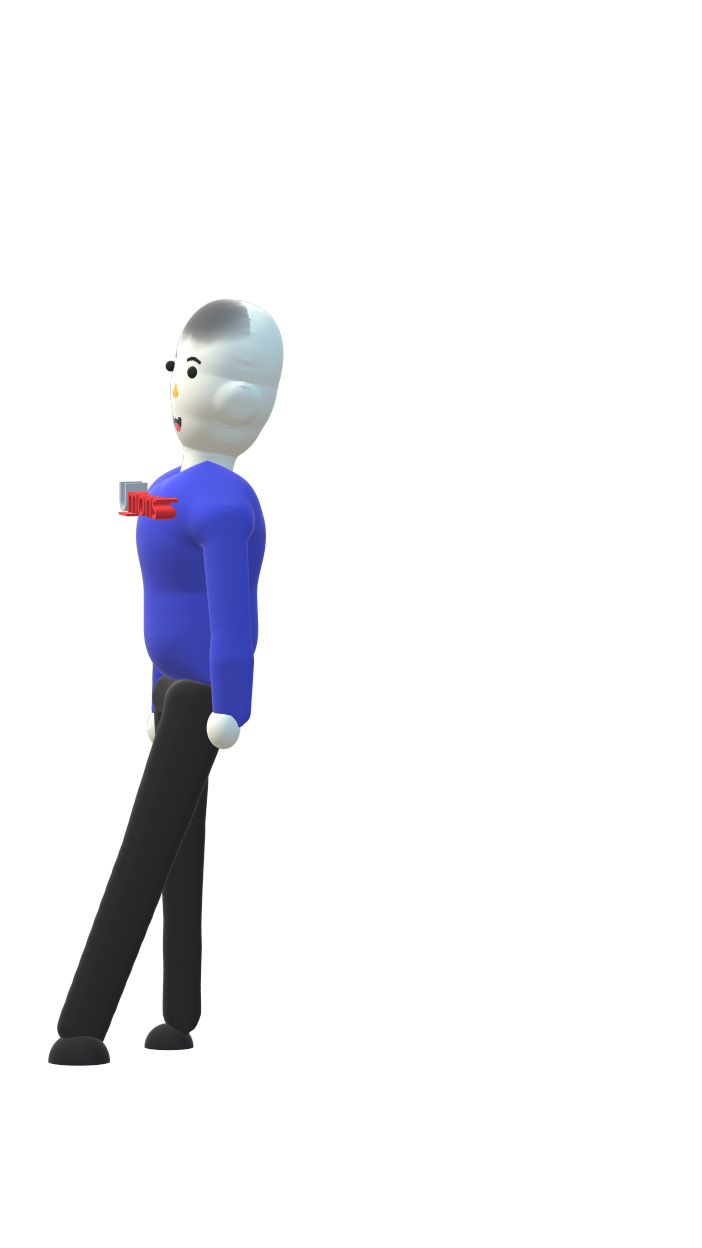
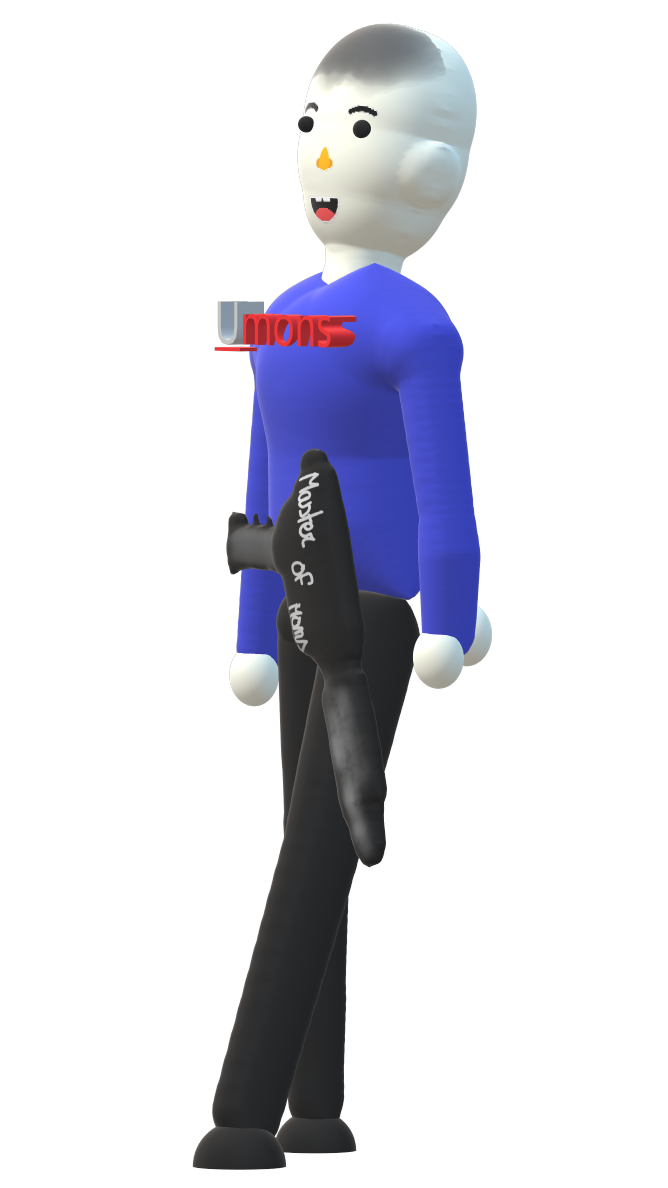
add the player with the gun (picture with gun)

Changed region(s): [[0.0599, 0.0, 0.7485, 0.9966]]

diff --git a/core/src/be/ac/umons/mom/g02/Objects/Characters/Character.java b/core/src/be/ac/umons/mom/g02/Objects/Characters/Character.java
@@ -4,6 +4,7 @@ import be.ac.umons.mom.g02.Enums.Maps;
 import be.ac.umons.mom.g02.Enums.Type;
 import be.ac.umons.mom.g02.Events.Notifications.Dead;
 import be.ac.umons.mom.g02.Events.Notifications.LowSomething;
+import be.ac.umons.mom.g02.Objects.Items.Guns;
 import be.ac.umons.mom.g02.Regulator.SuperviserNormally;
 import be.ac.umons.mom.g02.Objects.Items.Gun;
 import be.ac.umons.mom.g02.Objects.Items.Items;
@@ -53,7 +54,7 @@ public abstract class Character implements Attack, Social, Serializable
      * This is the specific object
      * This is the gun of the character
      */
-    protected Gun gun;
+    protected Guns gun;
     /**
      * This is the mobile living
      */
@@ -392,7 +393,7 @@ public abstract class Character implements Attack, Social, Serializable
     @Override
     public boolean howGun()
     {
-        return (gun != null && gun.getObsolete());
+        return (gun != null /*&& ((Items)gun).getObsolete()*/);
     }
 
 
@@ -401,7 +402,7 @@ public abstract class Character implements Attack, Social, Serializable
      * @return gun of the attacker
      */
     @Override
-    public Gun getGun()
+    public Guns getGun()
     {
         return gun;
     }

diff --git a/core/src/be/ac/umons/mom/g02/Objects/Characters/People.java b/core/src/be/ac/umons/mom/g02/Objects/Characters/People.java
@@ -2,6 +2,7 @@ package be.ac.umons.mom.g02.Objects.Characters;
 
 import be.ac.umons.mom.g02.Events.Notifications.*;
 import be.ac.umons.mom.g02.Objects.FrameTime;
+import be.ac.umons.mom.g02.Objects.Items.Guns;
 import be.ac.umons.mom.g02.Other.HyperPlanning;
 import be.ac.umons.mom.g02.Enums.Actions;
 import be.ac.umons.mom.g02.Enums.Bloc;
@@ -266,6 +267,11 @@ public class People extends Character implements Serializable, Observer, FrameTi
      */
     public boolean pushObject(Items object)
     {
+        if (object instanceof Guns)
+        {
+            gun = (Guns)object;
+            return true;
+        }
         if(myObject.size() == difficulty.getManyItem())
             return false;
         myObject.add(object);
